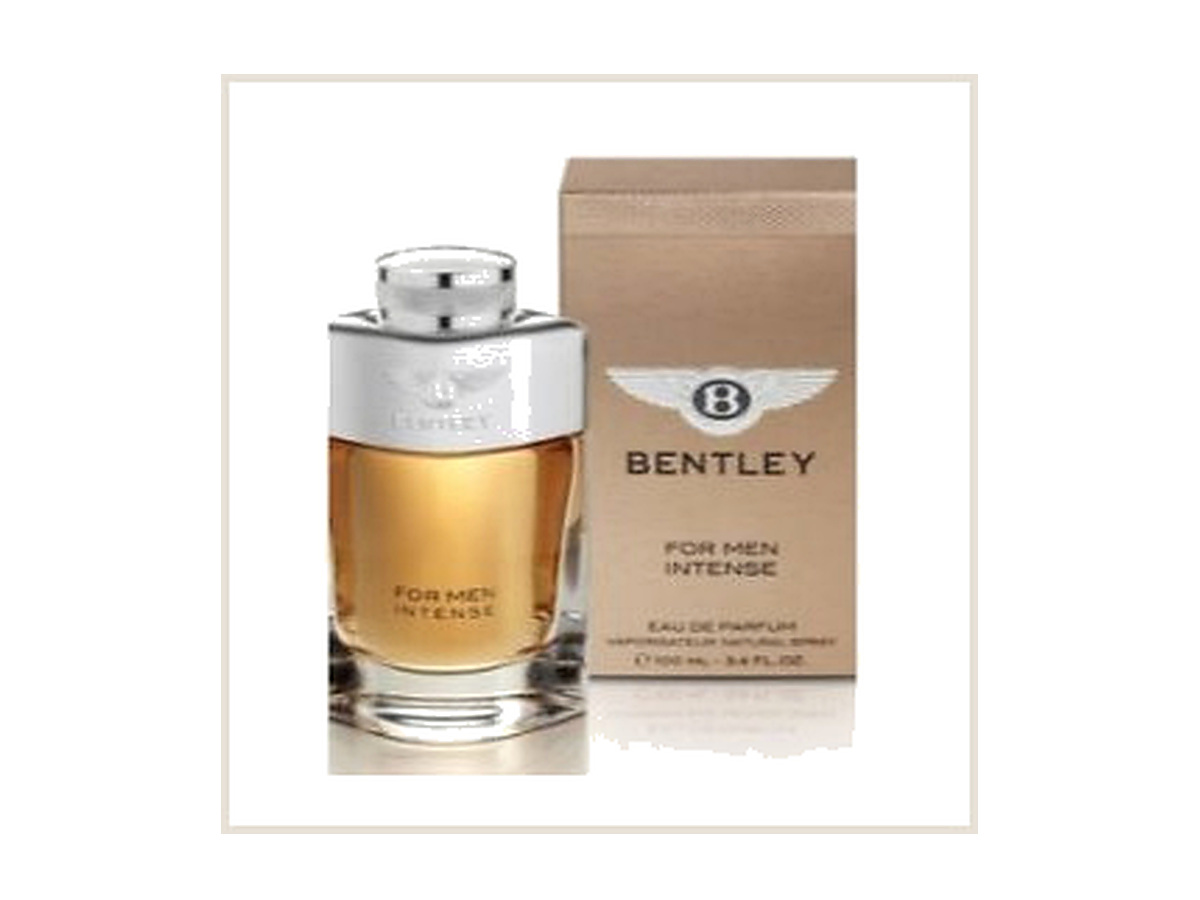
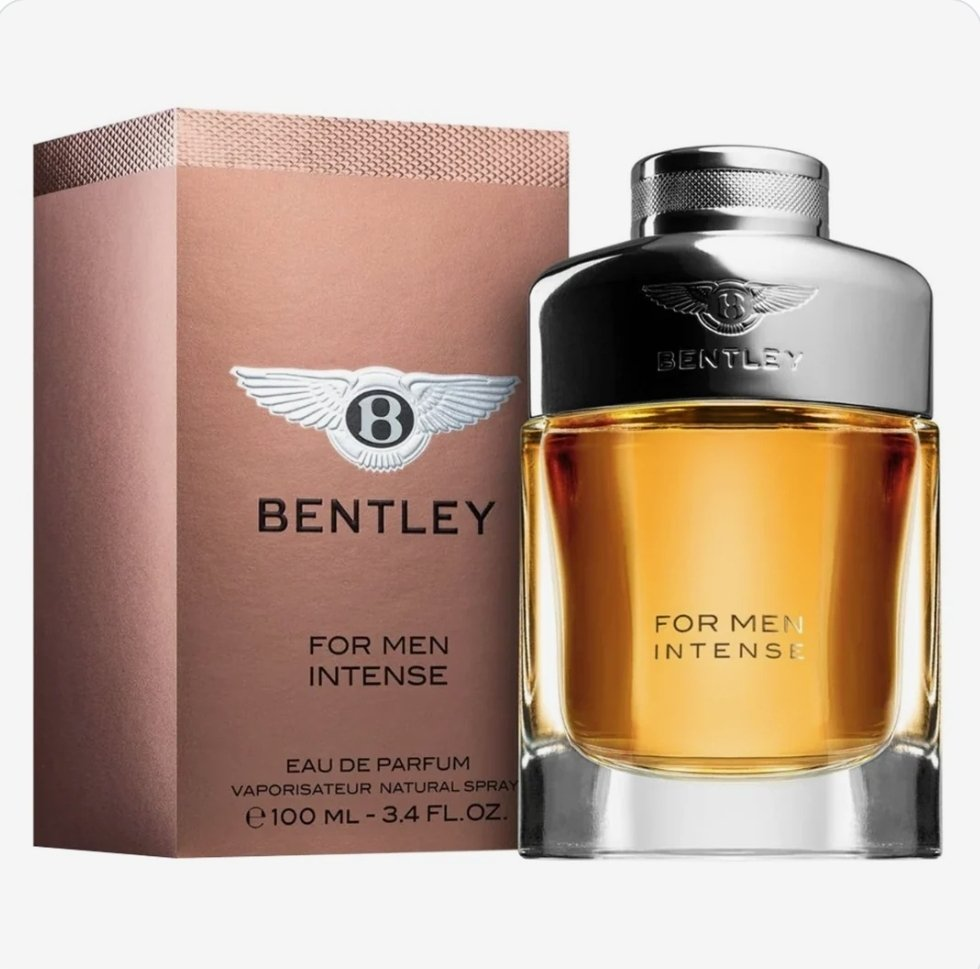
Replace Bentley Intense photos with Boss's new packshots

diff --git a/index.html b/index.html
@@ -694,7 +694,7 @@
         { name:'Rasasi Hawas Cologne for Men', niche:'Rasasi · Men · 3.38 oz EDP', direction:'Aquatic citrus with sweet amber', description:'Bright citrus and crisp aquatic freshness meet a lightly sweet amber-musk base. Clean, vibrant and easy to wear from daytime into the evening.', category:'fresh', images:[{src:'assets/product-rasasi-hawas.jpg', alt:'Rasasi Hawas bottle and box — clean packshot'}], price:45, decantPrice:11, originalPrice:65, featured:3 , paymentLink:'https://buy.stripe.com/7sY28t0IpaAc8K66Gvf7i12'},
         { name:'Jimmy Choo Illicit Flower Perfume for Women', niche:'Jimmy Choo · Women · 3.3 oz EDT', direction:'Sparkling fruit, rose and soft musk', description:'A graceful fruity-floral blend with a bright opening, delicate rose and a smooth musky finish. Polished, feminine and effortless for everyday wear.', category:'fresh', images:[{src:'assets/product-jimmy-choo-illicit-flower.jpg', alt:'Jimmy Choo Illicit Flower bottle and box — clean packshot'}], price:59, decantPrice:15, originalPrice:79, featured:4 , paymentLink:'https://buy.stripe.com/dRmdRbfDjfUw4tQ9SHf7i15'},
         { name:'Afnan 9PM Elixir Perfume for Unisex', niche:'Afnan · Unisex · 3.4 oz Parfum Intense', direction:'Aromatic spice and warm vanilla woods', description:'Deep spice and aromatic freshness lead into a rich, smooth base of vanilla-toned woods. A powerful unisex choice with a dressed-up evening feel.', category:'amber', images:[{src:'assets/product-afnan-9pm-elixir.jpg', alt:'Afnan 9PM Elixir bottle and box — clean packshot'},{src:'assets/gallery-afnan-9pm-elixir-1.jpg', alt:'Afnan 9PM Elixir Perfume for Unisex — customer photo 1'}], price:44, decantPrice:11, originalPrice:55, featured:5, paymentLink:'https://buy.stripe.com/00w7sN1Mt5fSe4q0i7f7i16' },
-        { name:'Bentley Intense Cologne for Men', niche:'Bentley · Men · 3.4 oz EDP', direction:'Rum, leather and smoky woods', description:'Warm rum and spice flow into leather, incense and dark woods. Rich, confident and best suited to cool weather or an evening setting.', category:'woody', images:[{src:'assets/product-bentley-intense.jpg', alt:'Bentley Intense bottle and box — clean packshot'}], price:40, decantPrice:10, originalPrice:52, featured:6, paymentLink:'https://buy.stripe.com/bJeeVf3UBaAcbWi5Crf7i19' },
+        { name:'Bentley Intense Cologne for Men', niche:'Bentley · Men · 3.4 oz EDP', direction:'Rum, leather and smoky woods', description:'Warm rum and spice flow into leather, incense and dark woods. Rich, confident and best suited to cool weather or an evening setting.', category:'woody', images:[{src:'assets/product-bentley-intense.jpg', alt:'Bentley Intense bottle and box on a clean white background'},{src:'assets/product-bentley-intense-2.jpg', alt:'Bentley Intense bottle on a clean white background'}], price:40, decantPrice:10, originalPrice:52, featured:6, paymentLink:'https://buy.stripe.com/bJeeVf3UBaAcbWi5Crf7i19' },
         { name:'Lattafa Pride Peace & Love Perfume for Unisex', niche:'Lattafa Pride · Unisex · 3.4 oz EDP', direction:'Soft florals, creamy woods and amber', description:'A smooth, comforting blend of luminous florals, creamy woods and mellow amber. Refined and easygoing, with a softly enveloping trail.', category:'amber', images:[{src:'assets/product-lattafa-peace-love.jpg', alt:'Lattafa Pride Peace and Love bottle and box — clean packshot'}], price:34, decantPrice:9, originalPrice:40, featured:7, paymentLink:'https://buy.stripe.com/9B66oJ2Qx6jW1hE6Gvf7i1a'},
         { name:'Lattafa Yara Elixir Perfume for Women', niche:'Lattafa · Women · 3.4 oz EDP', direction:'Lush berries, vanilla and warm amber', description:'Juicy fruit and soft florals melt into creamy vanilla and warm amber. Sweet, playful and plush without losing its polished finish.', category:'sweet', images:[{src:'assets/lattafa-yara-elixir-1.jpg', alt:'Lattafa Yara Elixir bottle on a clean white background'},{src:'assets/lattafa-yara-elixir-2.jpg', alt:'Lattafa Yara Elixir bottle in a pink fragrance composition'},{src:'assets/lattafa-yara-elixir-3.jpg', alt:'Lattafa Yara Elixir bottle and box with berries, vanilla and caramel notes'},{src:'assets/lattafa-yara-elixir-4.jpg', alt:'Lattafa Yara Elixir bottle with berries, vanilla and caramel notes'}], price:39, decantPrice:10, originalPrice:44, featured:8, paymentLink:'https://buy.stripe.com/7sYfZjfDj0ZC3pMc0Pf7i1b' },
         { name:'Rasasi Hawas Fire Cologne for Men', niche:'Rasasi · Men · 3.38 oz EDP', direction:'Red fruits, aromatic freshness and woods', description:'A vibrant mix of juicy fruit and crisp aromatics gains depth from spice and polished woods. Fresh at first spray, then warmer and more intense.', category:'fresh', images:[{src:'assets/product-rasasi-hawas-fire.jpg', alt:'Rasasi Hawas Fire bottle and box — clean packshot'},{src:'assets/gallery-rasasi-hawas-fire-1.jpg', alt:'Rasasi Hawas Fire Cologne for Men — customer photo 1'},{src:'assets/gallery-rasasi-hawas-fire-2.jpg', alt:'Rasasi Hawas Fire Cologne for Men — customer photo 2'}], price:54, decantPrice:14, originalPrice:75, featured:9 , paymentLink:'https://buy.stripe.com/5kQfZj3UB5fS9Oa5Crf7i14'},
